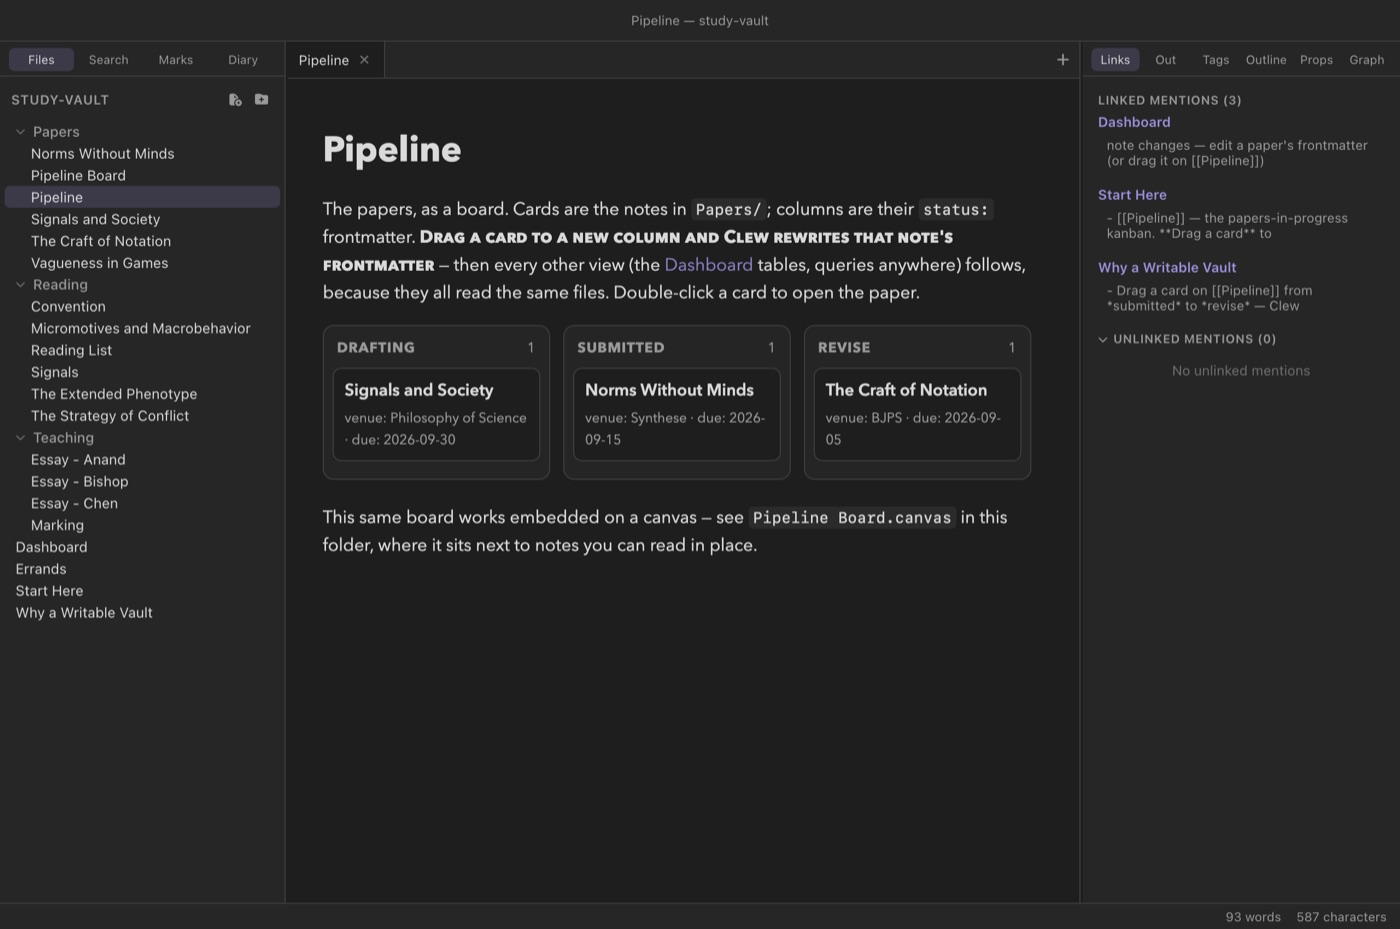
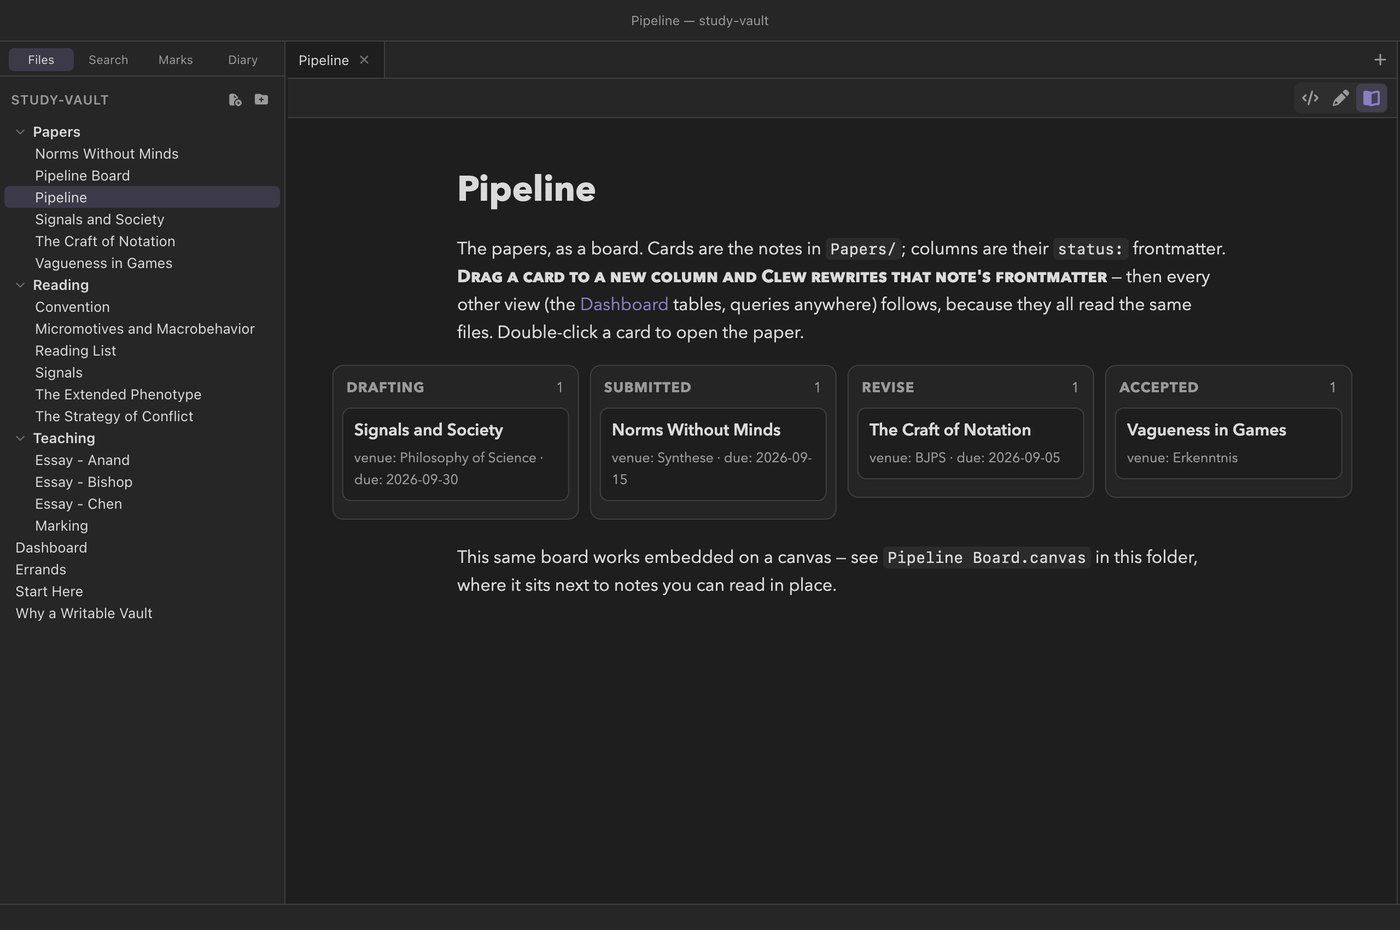
Release 0.12.0: the landing page — four kanban columns, tabbing, PDFs, the padlock
- kanban.jpg retaken: study-vault's Pipeline board, the explorer open and
  the right sidebar closed so all four columns fit (a65395c's fix; with
  both sidebars open the pane is narrower than the board and it would
  scroll), 2560x1700 scaled to 1400 wide as before.
- The typesetting list gains Tabbing.
- "Everything else you'd expect" gains PDFs annotated in a tab, a note or
  on a canvas, web PDFs opened read-only, and Meta Bind widgets with a
  padlock. The "distance measuring" bullet is true as it stands.
- Considered and left out: vault trust (a one-line claim cannot carry its
  scope — vault and inline scripts are not gated) and the two-row
  toolbar (too small for this page). The page has no live-edit section
  at all; that is the owner's to decide, not a release edit.

diff --git a/site/index.html b/site/index.html
@@ -288,6 +288,7 @@
 					<li><strong>Theorem environments</strong> — theorem, lemma, proof, numbered and referenceable</li>
 					<li><strong>Citations from BibTeX</strong> — <code>\cite{lewis1969}</code> with real bibliography styles, and cite-key autocompletion in the editor</li>
 					<li><strong>Diagrams</strong> — mermaid fences; TikZ, MetaPost, LaTeX and plain TeX typeset in the page by a WebAssembly TeX, with nothing to install</li>
+					<li><strong>Tabbing</strong> — LaTeX's <code>tabbing</code> environment, text lined up at stops you set as you go, in a notation that reads well as plain text</li>
 					<li><strong>Footnotes, alerts, tables, tags,</strong> GitHub-style callouts</li>
 				</ul>
 				<p>Export any note to HTML, LaTeX, or PDF from the File menu — same source, print-grade output.</p>
@@ -499,7 +500,11 @@
 					rename with link rewriting, dark and light themes, CSS snippets. Word,
 					Excel and PowerPoint files edit in tabs — LibreOffice, in
 					WebAssembly — and every note keeps a history you can browse and
-					restore.
+					restore. PDFs are annotated in a tab, in a note or on a canvas, and
+					one a note embeds from the web opens read-only in the same
+					viewer. Meta Bind widgets edit a note's properties in
+					place, with a padlock for a value that must not change by
+					accident.
 				</p>
 			</div>
 		</div>
